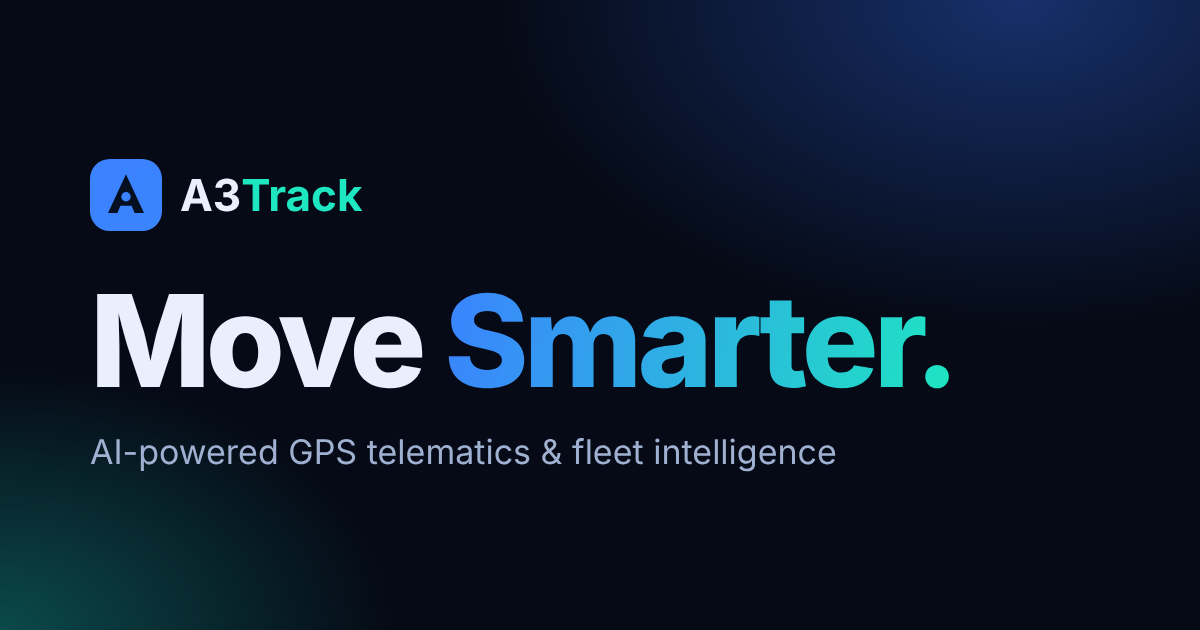
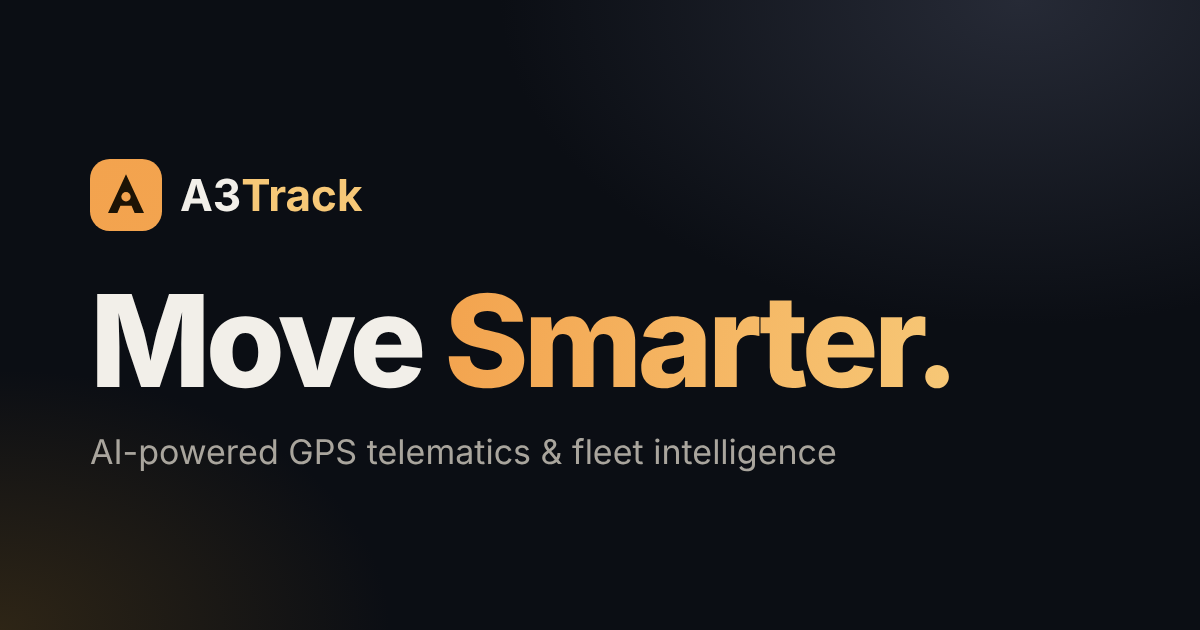
Recolour site to a calmer ink-and-amber palette
Replace the neon blue-to-teal gradient and heavy glows with warm neutrals,
a single amber accent, and soft sky/green for map and status details.

Claude-Session: https://claude.ai/code/session_01Pwk81Ws7sqgPyKJt9TYN3C

diff --git a/src/styles/global.css b/src/styles/global.css
@@ -2,24 +2,26 @@
 @import '@fontsource-variable/space-grotesk';
 
 :root {
-  --bg: #050a16;
-  --bg-2: #0a1224;
-  --surface: #0f1a33;
-  --surface-2: #14213f;
-  --line: rgba(148, 178, 255, 0.14);
-  --line-strong: rgba(148, 178, 255, 0.28);
-  --text: #e9effc;
-  --muted: #9fb0d0;
-  --blue: #3b82ff;
-  --blue-2: #6ea8ff;
-  --teal: #1ee6c1;
-  --amber: #ffb547;
-  --red: #ff5d73;
-  --grad: linear-gradient(100deg, #3b82ff 0%, #1ee6c1 100%);
-  --ink: #0b1530;
-  --ink-muted: #4b5a7a;
-  --paper: #f5f8ff;
-  --paper-line: #dde5f5;
+  --bg: #0b0e14;
+  --bg-2: #10141c;
+  --surface: #161b25;
+  --surface-2: #1c2330;
+  --line: rgba(255, 240, 220, 0.09);
+  --line-strong: rgba(255, 240, 220, 0.18);
+  --text: #f2efe9;
+  --muted: #a9a59d;
+  --blue: #ef7f45;
+  --blue-2: #f3bd7a;
+  --teal: #f6b352;
+  --amber: #f6b352;
+  --ok: #74c69d;
+  --sky: #86a9dc;
+  --red: #ef6470;
+  --grad: linear-gradient(100deg, #f3a34e 0%, #f7c877 100%);
+  --ink: #1a1c21;
+  --ink-muted: #5c5a55;
+  --paper: #f6f3ed;
+  --paper-line: #e6e0d5;
   --radius: 16px;
   --radius-lg: 24px;
   --shadow: 0 24px 60px -24px rgba(0, 0, 0, 0.6);
@@ -54,7 +56,7 @@ ul { margin: 0; padding: 0; list-style: none; }
 .section--light { background: var(--paper); color: var(--ink); }
 .section--light p, .section--light li { color: var(--ink-muted); }
 .section--light h2, .section--light h3 { color: var(--ink); }
-.section--light a:not(.btn) { color: #1d5fe0; }
+.section--light a:not(.btn) { color: #b4541a; }
 .center { text-align: center; }
 .head { max-width: 760px; margin-bottom: clamp(32px, 5vw, 56px); }
 .head.center { margin-inline: auto; }
@@ -66,7 +68,7 @@ ul { margin: 0; padding: 0; list-style: none; }
   letter-spacing: 0.14em; text-transform: uppercase; color: var(--teal); margin-bottom: 18px;
 }
 .eyebrow::before { content: ''; width: 22px; height: 2px; background: var(--grad); border-radius: 2px; }
-.section--light .eyebrow { color: #0d9c84; }
+.section--light .eyebrow { color: #b4541a; }
 .grad-text { background: var(--grad); -webkit-background-clip: text; background-clip: text; color: transparent; }
 
 /* Buttons */
@@ -75,11 +77,11 @@ ul { margin: 0; padding: 0; list-style: none; }
   padding: 13px 22px; border-radius: 999px; font: 600 0.96rem/1 var(--font);
   border: 1px solid transparent; cursor: pointer; transition: transform .2s, box-shadow .2s, background .2s, border-color .2s; white-space: nowrap;
 }
-.btn--primary { background: var(--grad); color: #041022; box-shadow: 0 10px 30px -10px rgba(59, 130, 255, 0.7); }
-.btn--primary:hover { color: #041022; transform: translateY(-2px); box-shadow: 0 16px 36px -10px rgba(30, 230, 193, 0.6); }
+.btn--primary { background: var(--grad); color: #1c1305; box-shadow: 0 8px 24px -12px rgba(243, 163, 78, 0.55); }
+.btn--primary:hover { color: #1c1305; transform: translateY(-2px); box-shadow: 0 14px 30px -12px rgba(246, 179, 82, 0.5); }
 .btn--ghost { border-color: var(--line-strong); color: var(--text); background: rgba(255, 255, 255, 0.03); }
 .btn--ghost:hover { border-color: var(--teal); color: var(--text); }
-.section--light .btn--ghost { color: var(--ink); border-color: #c5d2ec; background: #fff; }
+.section--light .btn--ghost { color: var(--ink); border-color: #d8d0c2; background: #fff; }
 .btn--sm { padding: 10px 16px; font-size: 0.88rem; }
 .btn-row { display: flex; flex-wrap: wrap; gap: 12px; }
 .center .btn-row { justify-content: center; }
@@ -88,7 +90,7 @@ ul { margin: 0; padding: 0; list-style: none; }
 .arrow-link:hover::after { transform: translateX(4px); }
 
 /* Header */
-.header { position: sticky; top: 0; z-index: 100; background: rgba(5, 10, 22, 0.78); backdrop-filter: blur(14px); -webkit-backdrop-filter: blur(14px); border-bottom: 1px solid var(--line); }
+.header { position: sticky; top: 0; z-index: 100; background: rgba(11, 14, 20, 0.78); backdrop-filter: blur(14px); -webkit-backdrop-filter: blur(14px); border-bottom: 1px solid var(--line); }
 .header__in { display: flex; align-items: center; justify-content: space-between; height: 70px; gap: 24px; }
 .logo { display: inline-flex; align-items: center; gap: 10px; color: var(--text); font: 700 1.35rem/1 var(--display); letter-spacing: -0.03em; }
 .logo:hover { color: var(--text); }
@@ -103,8 +105,8 @@ ul { margin: 0; padding: 0; list-style: none; }
 .mega--wide { width: min(92vw, 640px); display: grid; grid-template-columns: 1fr 1fr; gap: 2px; }
 .nav__item:hover .mega, .nav__item:focus-within .mega { opacity: 1; visibility: visible; transform: translate(-50%, 0); }
 .mega a { display: flex; gap: 12px; align-items: flex-start; padding: 10px 12px; border-radius: 10px; color: var(--text); }
-.mega a:hover { background: rgba(110, 168, 255, 0.1); color: var(--text); }
-.mega a .ico { flex: none; width: 34px; height: 34px; border-radius: 9px; background: rgba(59, 130, 255, 0.14); display: grid; place-items: center; color: var(--teal); }
+.mega a:hover { background: rgba(246, 179, 82, 0.1); color: var(--text); }
+.mega a .ico { flex: none; width: 34px; height: 34px; border-radius: 9px; background: rgba(239, 127, 69, 0.14); display: grid; place-items: center; color: var(--teal); }
 .mega a .ico svg { width: 18px; height: 18px; }
 .mega strong { display: block; font-size: 0.93rem; font-weight: 600; line-height: 1.3; }
 .mega small { display: block; color: var(--muted); font-size: 0.8rem; line-height: 1.35; margin-top: 2px; }
@@ -130,22 +132,22 @@ ul { margin: 0; padding: 0; list-style: none; }
 .g3 { grid-template-columns: repeat(auto-fit, minmax(min(100%, 300px), 1fr)); }
 .g4 { grid-template-columns: repeat(auto-fit, minmax(min(100%, 230px), 1fr)); }
 .card {
-  position: relative; background: linear-gradient(180deg, rgba(20, 33, 63, 0.9), rgba(12, 20, 40, 0.9));
+  position: relative; background: linear-gradient(180deg, rgba(28, 35, 48, 0.9), rgba(18, 22, 30, 0.9));
   border: 1px solid var(--line); border-radius: var(--radius); padding: 26px; color: var(--text);
   transition: transform .25s, border-color .25s, box-shadow .25s; display: block; height: 100%;
 }
-a.card:hover { transform: translateY(-4px); border-color: rgba(30, 230, 193, 0.5); color: var(--text); box-shadow: 0 20px 50px -24px rgba(30, 230, 193, 0.45); }
+a.card:hover { transform: translateY(-4px); border-color: rgba(246, 179, 82, 0.45); color: var(--text); box-shadow: 0 24px 50px -30px rgba(0, 0, 0, 0.8); }
 .card p { color: var(--muted); margin: 0; font-size: 0.96rem; }
 .card h3 { margin-bottom: 8px; }
-.card .ico { width: 46px; height: 46px; border-radius: 12px; display: grid; place-items: center; margin-bottom: 18px; color: var(--teal); background: linear-gradient(135deg, rgba(59, 130, 255, 0.25), rgba(30, 230, 193, 0.12)); border: 1px solid var(--line); }
+.card .ico { width: 46px; height: 46px; border-radius: 12px; display: grid; place-items: center; margin-bottom: 18px; color: var(--teal); background: rgba(246, 179, 82, 0.1); border: 1px solid var(--line); }
 .card .ico svg { width: 22px; height: 22px; }
 .card .more { display: inline-block; margin-top: 14px; font-weight: 600; font-size: 0.9rem; color: var(--blue-2); }
-.section--light .card { background: #fff; border-color: var(--paper-line); color: var(--ink); box-shadow: 0 10px 30px -22px rgba(11, 21, 48, 0.35); }
+.section--light .card { background: #fff; border-color: var(--paper-line); color: var(--ink); box-shadow: 0 10px 30px -22px rgba(22, 24, 29, 0.35); }
 .section--light .card p { color: var(--ink-muted); }
-.section--light .card .ico { color: #1d5fe0; background: #eaf1ff; border-color: #d6e3ff; }
-.section--light a.card:hover { color: var(--ink); border-color: #1d5fe0; }
+.section--light .card .ico { color: #b4541a; background: #fbeedd; border-color: #f3dcc0; }
+.section--light a.card:hover { color: var(--ink); border-color: #b4541a; }
 .num { font: 700 0.85rem/1 var(--display); color: var(--teal); width: 36px; height: 36px; border-radius: 50%; border: 1px solid var(--line-strong); display: grid; place-items: center; margin-bottom: 16px; }
-.section--light .num { color: #1d5fe0; border-color: #c5d2ec; }
+.section--light .num { color: #b4541a; border-color: #d8d0c2; }
 .chip { display: inline-flex; align-items: center; gap: 8px; padding: 8px 14px; border-radius: 999px; border: 1px solid var(--line-strong); color: var(--text); font-size: 0.9rem; font-weight: 500; background: rgba(255, 255, 255, 0.03); }
 .chip svg { width: 16px; height: 16px; color: var(--teal); }
 a.chip:hover { border-color: var(--teal); color: var(--text); }
@@ -155,17 +157,17 @@ a.chip:hover { border-color: var(--teal); color: var(--text); }
 .split { display: grid; grid-template-columns: repeat(auto-fit, minmax(min(100%, 440px), 1fr)); gap: clamp(32px, 6vw, 80px); align-items: center; }
 
 /* Answer box (AEO) */
-.answer { border: 1px solid var(--line-strong); border-left: 4px solid var(--teal); border-radius: var(--radius); padding: 28px clamp(20px, 4vw, 36px); background: rgba(30, 230, 193, 0.05); }
+.answer { border: 1px solid var(--line-strong); border-left: 4px solid var(--teal); border-radius: var(--radius); padding: 28px clamp(20px, 4vw, 36px); background: rgba(246, 179, 82, 0.05); }
 .answer h2 { font-size: clamp(1.3rem, 2.4vw, 1.7rem); margin-bottom: 12px; }
 .answer p { margin: 0; font-size: 1.08rem; color: var(--text); }
-.section--light .answer { background: #fff; border-color: var(--paper-line); border-left-color: #0d9c84; }
+.section--light .answer { background: #fff; border-color: var(--paper-line); border-left-color: #b4541a; }
 .section--light .answer p { color: var(--ink); }
 
 /* Page hero */
 .phero { position: relative; padding: clamp(56px, 8vw, 110px) 0 clamp(48px, 7vw, 90px); overflow: hidden; }
 .phero::before { content: ''; position: absolute; inset: 0; background:
-  radial-gradient(700px 380px at 85% -10%, rgba(59, 130, 255, 0.28), transparent 65%),
-  radial-gradient(600px 340px at 5% 110%, rgba(30, 230, 193, 0.16), transparent 65%); pointer-events: none; }
+  radial-gradient(700px 380px at 85% -10%, rgba(134, 169, 220, 0.14), transparent 65%),
+  radial-gradient(600px 340px at 5% 110%, rgba(246, 179, 82, 0.08), transparent 65%); pointer-events: none; }
 .phero::after { content: ''; position: absolute; inset: 0; background-image: linear-gradient(var(--line) 1px, transparent 1px), linear-gradient(90deg, var(--line) 1px, transparent 1px); background-size: 56px 56px; mask-image: radial-gradient(ellipse at 70% 0%, #000 0%, transparent 70%); -webkit-mask-image: radial-gradient(ellipse at 70% 0%, #000 0%, transparent 70%); opacity: .5; pointer-events: none; }
 .phero .container { position: relative; z-index: 1; }
 .phero h1 { max-width: 20ch; font-size: clamp(2.1rem, 4.6vw, 3.5rem); }
@@ -185,21 +187,21 @@ a.chip:hover { border-color: var(--teal); color: var(--text); }
 .faq details[open] summary::after { transform: translateY(-50%) rotate(45deg); }
 .faq .faq__a { padding: 0 0 22px; color: var(--muted); max-width: 72ch; }
 .section--light .faq .faq__a { color: var(--ink-muted); }
-.section--light .faq summary::after { color: #1d5fe0; }
+.section--light .faq summary::after { color: #b4541a; }
 
 /* CTA band */
-.cta { position: relative; border-radius: var(--radius-lg); padding: clamp(36px, 6vw, 72px); overflow: hidden; background: linear-gradient(120deg, #10255a 0%, #0b3b54 100%); border: 1px solid var(--line-strong); text-align: center; }
-.cta::before { content: ''; position: absolute; inset: 0; background: radial-gradient(500px 240px at 50% 0%, rgba(30, 230, 193, 0.25), transparent 70%); }
+.cta { position: relative; border-radius: var(--radius-lg); padding: clamp(36px, 6vw, 72px); overflow: hidden; background: linear-gradient(120deg, #1e232e 0%, #2e2516 100%); border: 1px solid var(--line-strong); text-align: center; }
+.cta::before { content: ''; position: absolute; inset: 0; background: radial-gradient(500px 240px at 50% 0%, rgba(246, 179, 82, 0.14), transparent 70%); }
 .cta > * { position: relative; }
 .cta h2 { max-width: 20ch; margin-inline: auto; }
-.cta p { color: #c3d3f0; max-width: 56ch; margin: 0 auto 26px; }
+.cta p { color: #d6d1c7; max-width: 56ch; margin: 0 auto 26px; }
 
 /* Footer */
-.footer { border-top: 1px solid var(--line); background: #040812; padding: 64px 0 28px; font-size: 0.92rem; }
+.footer { border-top: 1px solid var(--line); background: #080a0f; padding: 64px 0 28px; font-size: 0.92rem; }
 .footer__grid { display: grid; grid-template-columns: 1.4fr repeat(4, 1fr); gap: 36px; }
 .footer h2 { font: 600 0.8rem/1 var(--font); letter-spacing: 0.12em; text-transform: uppercase; color: var(--muted); margin-bottom: 16px; }
 .footer li { margin-bottom: 9px; }
-.footer a { color: #c8d4ee; }
+.footer a { color: #cdc9c1; }
 .footer a:hover { color: var(--teal); }
 .footer p, .footer address { color: var(--muted); font-style: normal; }
 .footer__bottom { display: flex; flex-wrap: wrap; gap: 12px 24px; justify-content: space-between; border-top: 1px solid var(--line); margin-top: 44px; padding-top: 22px; color: var(--muted); font-size: 0.85rem; }
@@ -211,17 +213,17 @@ a.chip:hover { border-color: var(--teal); color: var(--text); }
 .prose { max-width: 740px; margin-inline: auto; font-size: 1.07rem; }
 .prose h2 { font-size: clamp(1.45rem, 2.6vw, 1.9rem); margin-top: 1.9em; }
 .prose h3 { font-size: 1.22rem; margin-top: 1.6em; }
-.prose p, .prose li { color: #c9d5ee; }
+.prose p, .prose li { color: #cdc9c1; }
 .prose ul, .prose ol { padding-left: 1.3em; margin: 0 0 1.2em; }
 .prose ul { list-style: disc; } .prose ol { list-style: decimal; }
 .prose li { margin-bottom: .5em; }
 .prose strong { color: var(--text); }
-.prose blockquote { margin: 1.5em 0; padding: 18px 24px; border-left: 4px solid var(--teal); background: rgba(30, 230, 193, 0.06); border-radius: 0 12px 12px 0; }
+.prose blockquote { margin: 1.5em 0; padding: 18px 24px; border-left: 4px solid var(--teal); background: rgba(246, 179, 82, 0.06); border-radius: 0 12px 12px 0; }
 .prose blockquote p { margin: 0; color: var(--text); }
 .prose table { width: 100%; border-collapse: collapse; margin: 1.5em 0; font-size: 0.95rem; display: block; overflow-x: auto; }
 .prose th, .prose td { text-align: left; padding: 12px 14px; border-bottom: 1px solid var(--line); }
 .prose th { color: var(--text); font-weight: 600; background: var(--surface); }
-.prose td { color: #c9d5ee; }
+.prose td { color: #cdc9c1; }
 .prose a { text-decoration: underline; text-underline-offset: 3px; }
 
 /* Forms */
@@ -229,8 +231,8 @@ a.chip:hover { border-color: var(--teal); color: var(--text); }
 .form .row { display: grid; grid-template-columns: 1fr 1fr; gap: 16px; }
 @media (max-width: 600px) { .form .row { grid-template-columns: 1fr; } }
 .field label { display: block; font-size: 0.86rem; font-weight: 600; margin-bottom: 6px; color: var(--text); }
-.field input, .field select, .field textarea { width: 100%; padding: 13px 14px; border-radius: 10px; border: 1px solid var(--line-strong); background: rgba(5, 10, 22, 0.6); color: var(--text); font: inherit; }
-.field input:focus, .field select:focus, .field textarea:focus { outline: none; border-color: var(--teal); box-shadow: 0 0 0 3px rgba(30, 230, 193, 0.18); }
+.field input, .field select, .field textarea { width: 100%; padding: 13px 14px; border-radius: 10px; border: 1px solid var(--line-strong); background: rgba(11, 14, 20, 0.6); color: var(--text); font: inherit; }
+.field input:focus, .field select:focus, .field textarea:focus { outline: none; border-color: var(--teal); box-shadow: 0 0 0 3px rgba(246, 179, 82, 0.18); }
 .field textarea { min-height: 110px; resize: vertical; }
 .hp { position: absolute; left: -9999px; width: 1px; height: 1px; overflow: hidden; }
 .form__note { font-size: 0.82rem; color: var(--muted); }
